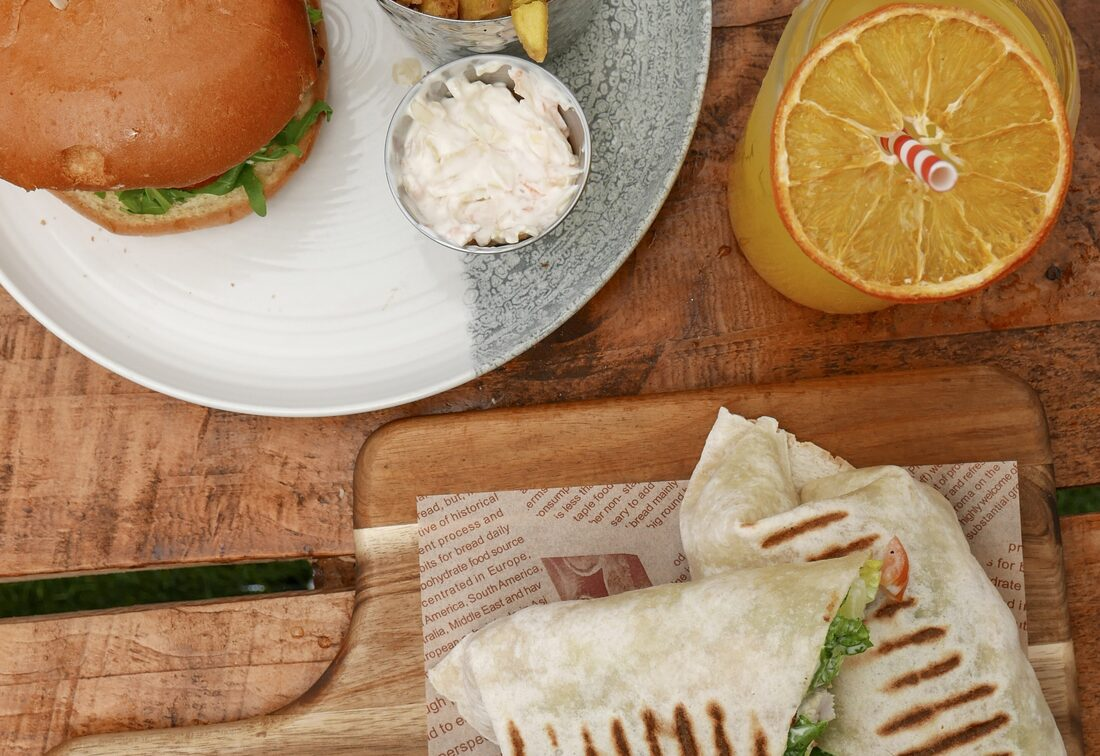
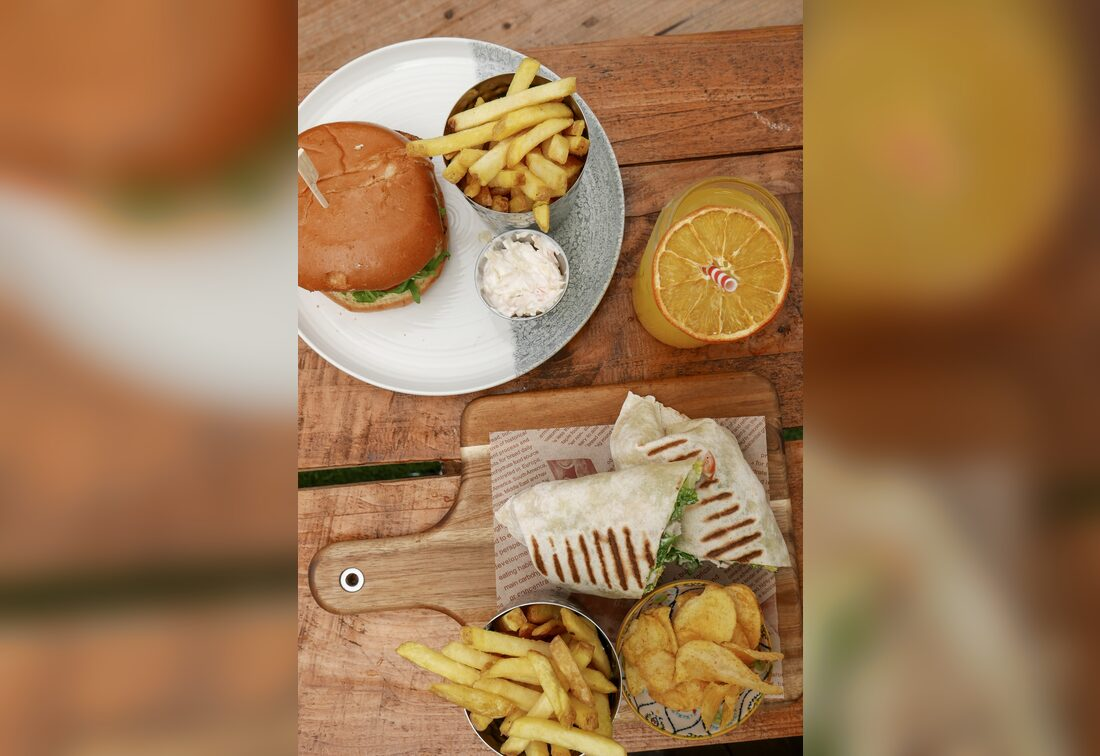
Show full meals on cards, use neon sign in story section

diff --git a/index.html b/index.html
@@ -305,7 +305,7 @@
           </div>
         </div>
         <div class="story-visual" data-reveal>
-          <img src="/images/staff-apron.jpg" alt="A member of the Mason's Apron team behind the coffee machine">
+          <img src="/images/neon-sign.jpg" alt="The Mason's Apron neon sign on a flower wall">
           <span class="label">"A real gem of a stop in Virginia."</span>
         </div>
       </div>